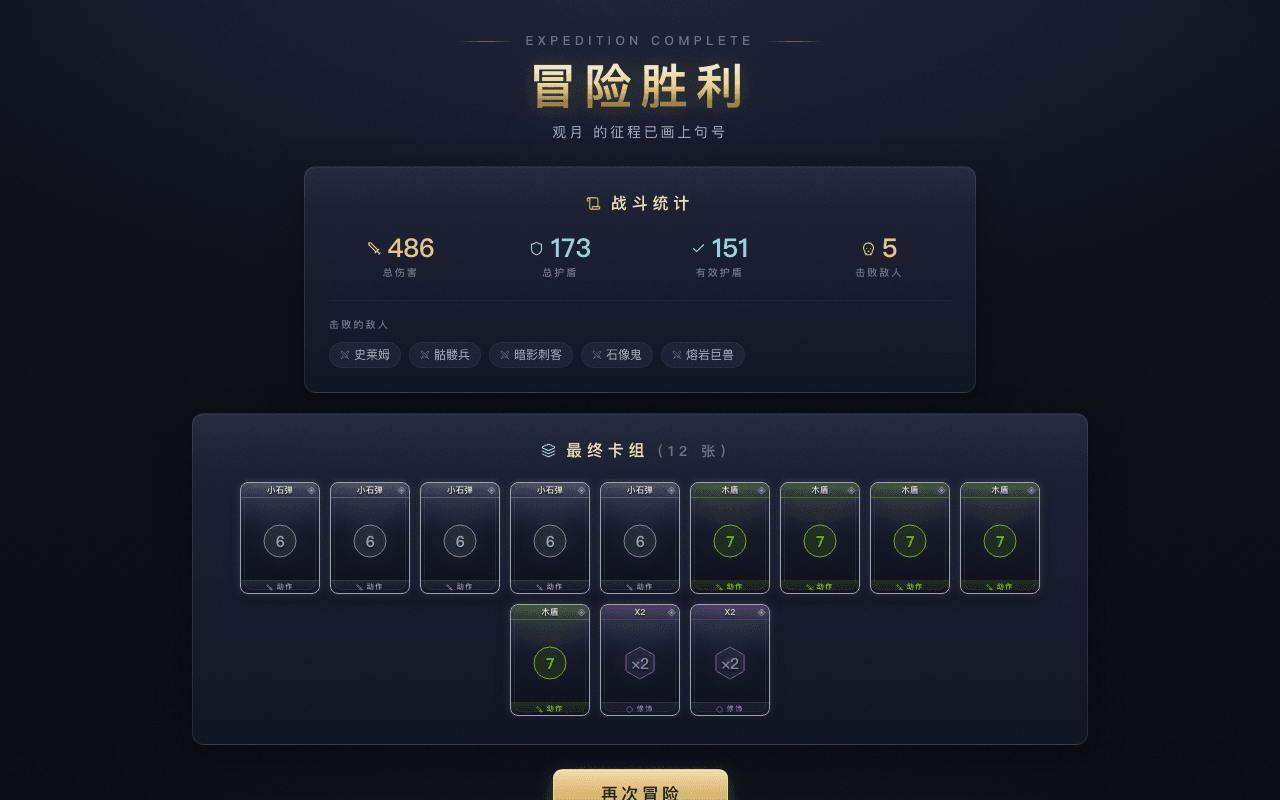
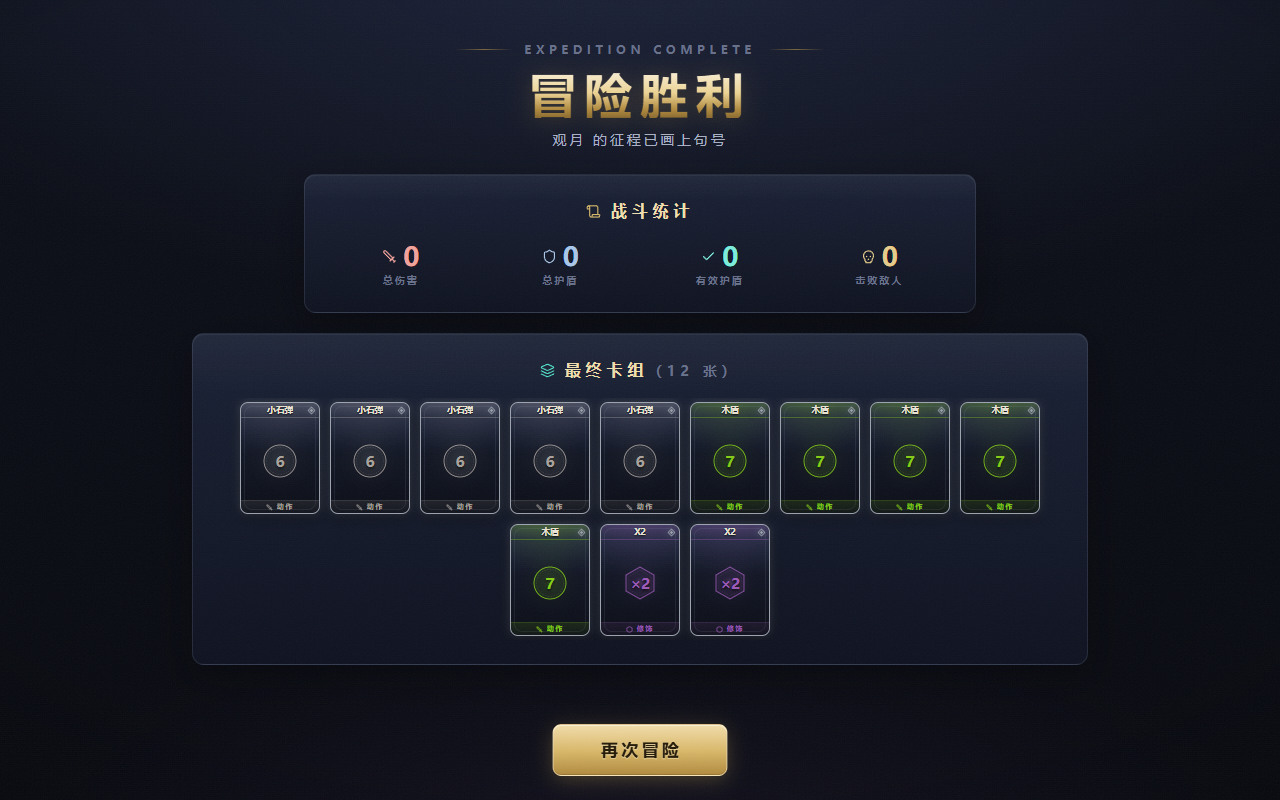
polish(quality): 品质级细节修复——双视口逐屏视觉审查
- 结算屏: 主按钮改 fixed 底部悬浮, 长内容不再被视口裁切
- 结果签: 完全移到槽位外下方(-26px), 不再压住卡牌类型缎带;
  面板 padding 同步留出空间; 删除穿过结果签的下导轨装饰线
- 输入框 placeholder 颜色压暗(不再像已输入文字)
- 商店剔除行 gap 响应式收紧

流程: 逐屏截图(16张)→视觉审查→修复→复检循环;
双视口(1280/390)验证; 双 E2E 套件全通过

diff --git a/src/components/PipelineBoard.tsx b/src/components/PipelineBoard.tsx
@@ -97,7 +97,7 @@ function SlotResultTag({ preview, compact }: { preview: SlotPreview; compact?: b
     <motion.div
       initial={{ opacity: 0, y: -4 }}
       animate={{ opacity: 1, y: 0 }}
-      className={`absolute -bottom-[12px] left-1/2 -translate-x-1/2 z-30 flex items-center justify-center gap-1 rounded-md px-2 py-[2px] font-bold whitespace-nowrap pointer-events-none ${compact ? "text-[8px]" : "text-[10px]"}`}
+      className={`absolute -bottom-[26px] left-1/2 -translate-x-1/2 z-30 flex items-center justify-center gap-1 rounded-md px-2 py-[3px] font-bold whitespace-nowrap pointer-events-none ${compact ? "-bottom-[20px] text-[8px] px-1.5" : "text-[10px]"}`}
       style={
         fullyBlocked
           ? { color: '#a9c6e8', background: 'rgba(16,26,44,0.95)', border: '1px solid rgba(126,166,216,0.5)', boxShadow: '0 2px 8px rgba(3,4,8,0.5)' }
@@ -377,10 +377,9 @@ export function PipelineBoard({
       className="mx-auto w-fit max-w-full px-4"
       animate={shouldShake ? { x: [0, -8, 8, -6, 6, 0], transition: { duration: 0.45 } } : {}}
     >
-      <div className="panel relative px-5 pt-2.5 pb-2">
+      <div className="panel relative px-5 pt-6 pb-8">
         {/* 导轨装饰：槽位行上下各一条鎏金细轨 */}
         <div className="absolute left-6 right-6 top-[7px] h-px" style={{ background: 'linear-gradient(90deg, transparent, rgba(200,162,78,0.35), transparent)' }} />
-        <div className="absolute left-6 right-6 bottom-[7px] h-px" style={{ background: 'linear-gradient(90deg, transparent, rgba(200,162,78,0.35), transparent)' }} />
 
         {/* ===== 槽位行 ===== */}
         <div className="relative flex flex-wrap items-center justify-center gap-1 sm:gap-1">

diff --git a/src/components/GameEndScreen.tsx b/src/components/GameEndScreen.tsx
@@ -37,7 +37,8 @@ export function GameEndScreen({ isVictory = true }: GameEndScreenProps) {
   };
 
   return (
-    <div className={`scene vignette grain flex flex-col items-center justify-center min-h-screen px-4 py-8 overflow-y-auto ${isVictory ? 'scene-aurora' : ''}`}>
+    <div className={`scene vignette grain flex flex-col min-h-screen px-4 py-10 overflow-y-auto ${isVictory ? 'scene-aurora' : ''}`}>
+      <div className="my-auto flex flex-col items-center w-full pb-20">
       {/* 标题 */}
       <motion.div
         initial={{ opacity: 0, y: -20 }}
@@ -159,10 +160,11 @@ export function GameEndScreen({ isVictory = true }: GameEndScreenProps) {
         whileHover={{ scale: 1.04 }}
         whileTap={{ scale: 0.96 }}
         onClick={handleRestart}
-        className={`relative z-10 btn btn-xl ${isVictory ? 'btn-primary' : 'btn-secondary'}`}
+        className={`fixed bottom-6 left-1/2 -translate-x-1/2 z-30 btn btn-xl shadow-2xl ${isVictory ? 'btn-primary' : 'btn-secondary'}`}
       >
         {isVictory ? '再次冒险' : '重新开始'}
       </motion.button>
+      </div>
     </div>
   );
 }

diff --git a/src/components/ShopScreen.tsx b/src/components/ShopScreen.tsx
@@ -92,7 +92,7 @@ export function ShopScreen() {
         <p className="text-center text-xs mb-4" style={{ color: 'var(--text-muted)' }}>
           每次剔除后价格会上涨 · 点击要剔除的卡
         </p>
-        <div className="flex flex-wrap gap-2.5 mb-6 justify-center max-w-6xl mx-auto">
+        <div className="flex flex-wrap gap-2 sm:gap-2.5 mb-6 justify-center max-w-6xl mx-auto">
           {masterDeck.map((card, i) => (
             <motion.div
               key={`${card.templateId}-${i}`}

diff --git a/scripts/capture-scenes.ts b/scripts/capture-scenes.ts
@@ -50,7 +50,7 @@ async function enterMap(page: import('playwright').Page) {
 }
 
 async function main() {
-  const browser = await chromium.launch({ headless: true });
+  const browser = await chromium.launch({ channel: 'msedge', headless: true });
   const page = await browser.newPage({ viewport: { width: 1280, height: 800 } });
   page.on('pageerror', (e) => console.log('[pageerror]', String(e).slice(0, 300)));
   await page.goto(BASE, { waitUntil: 'domcontentloaded' });

diff --git a/src/index.css b/src/index.css
@@ -75,6 +75,11 @@
 
   #root { width: 100vw; height: 100vh; }
 
+  input::placeholder {
+    color: rgba(122, 132, 158, 0.6);
+    font-weight: 500;
+  }
+
   ::selection { background: rgba(200, 162, 78, 0.35); }
 }
 
